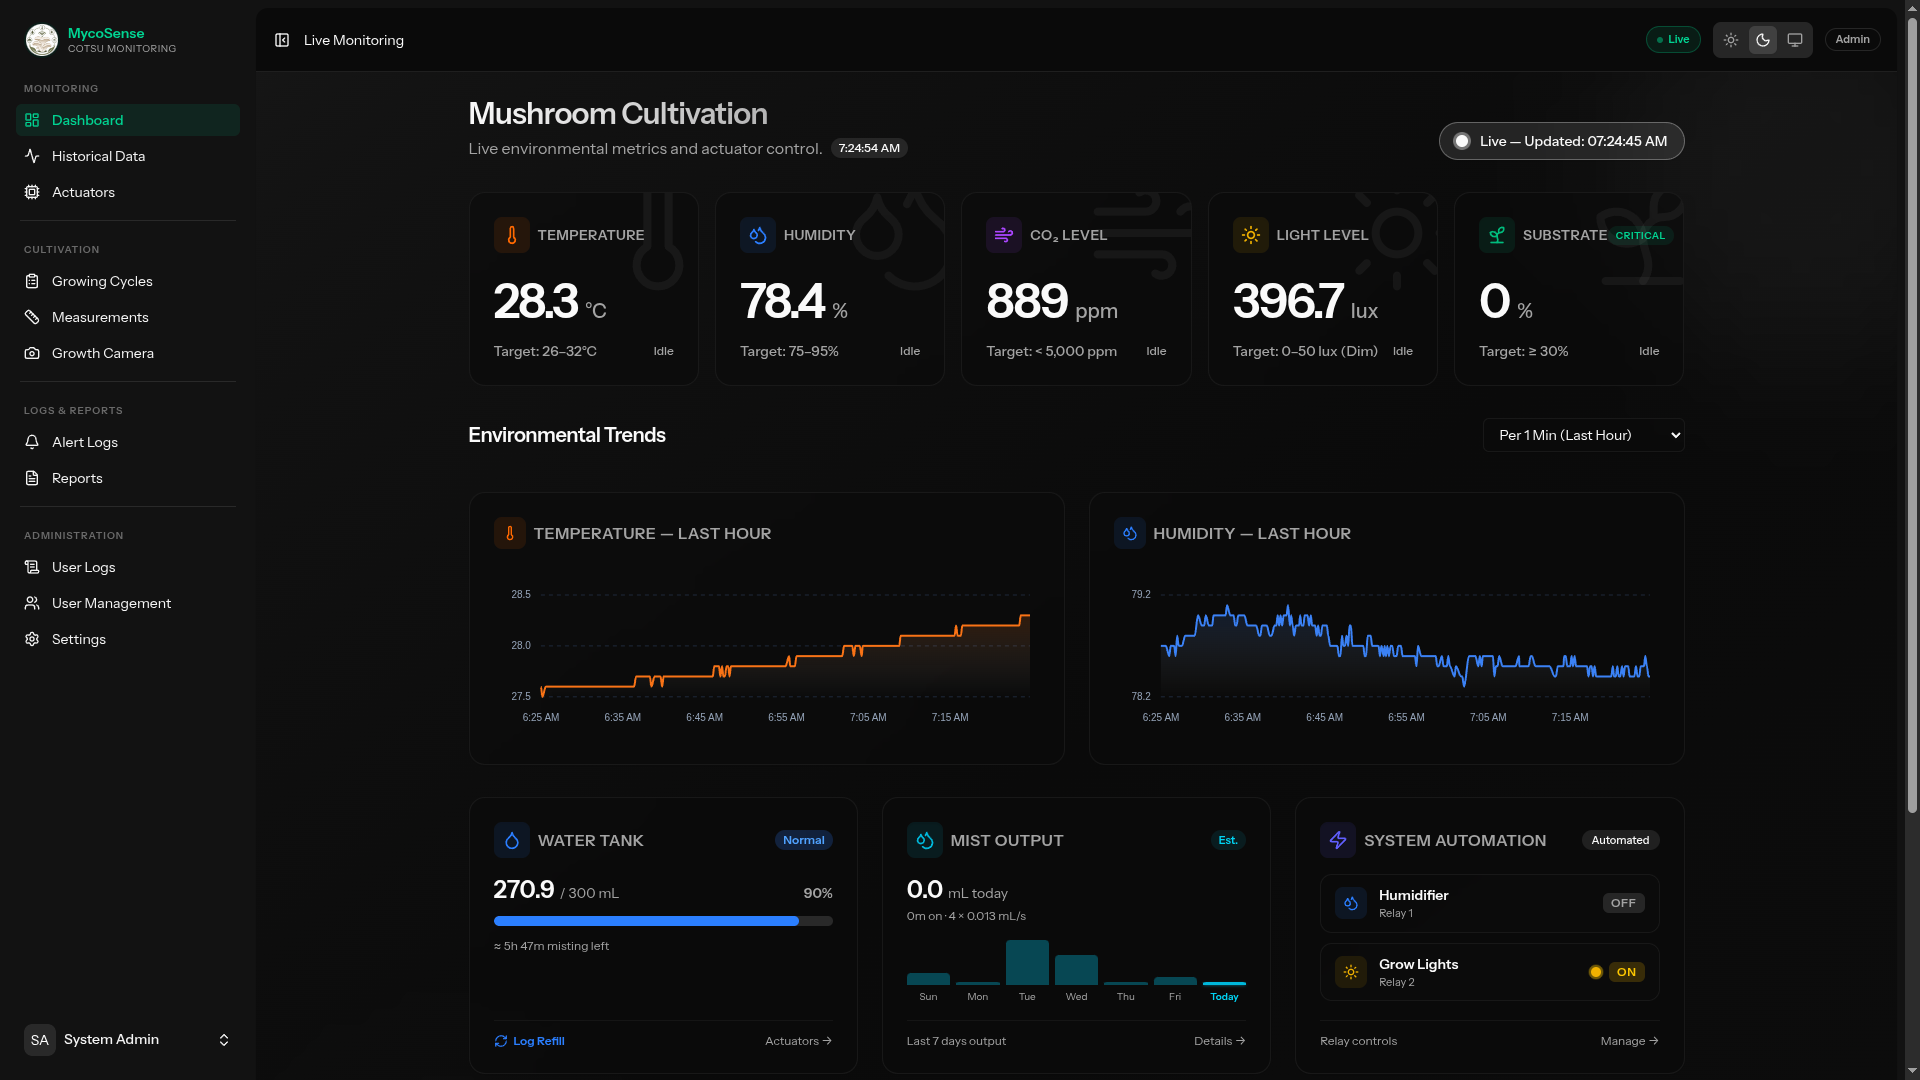
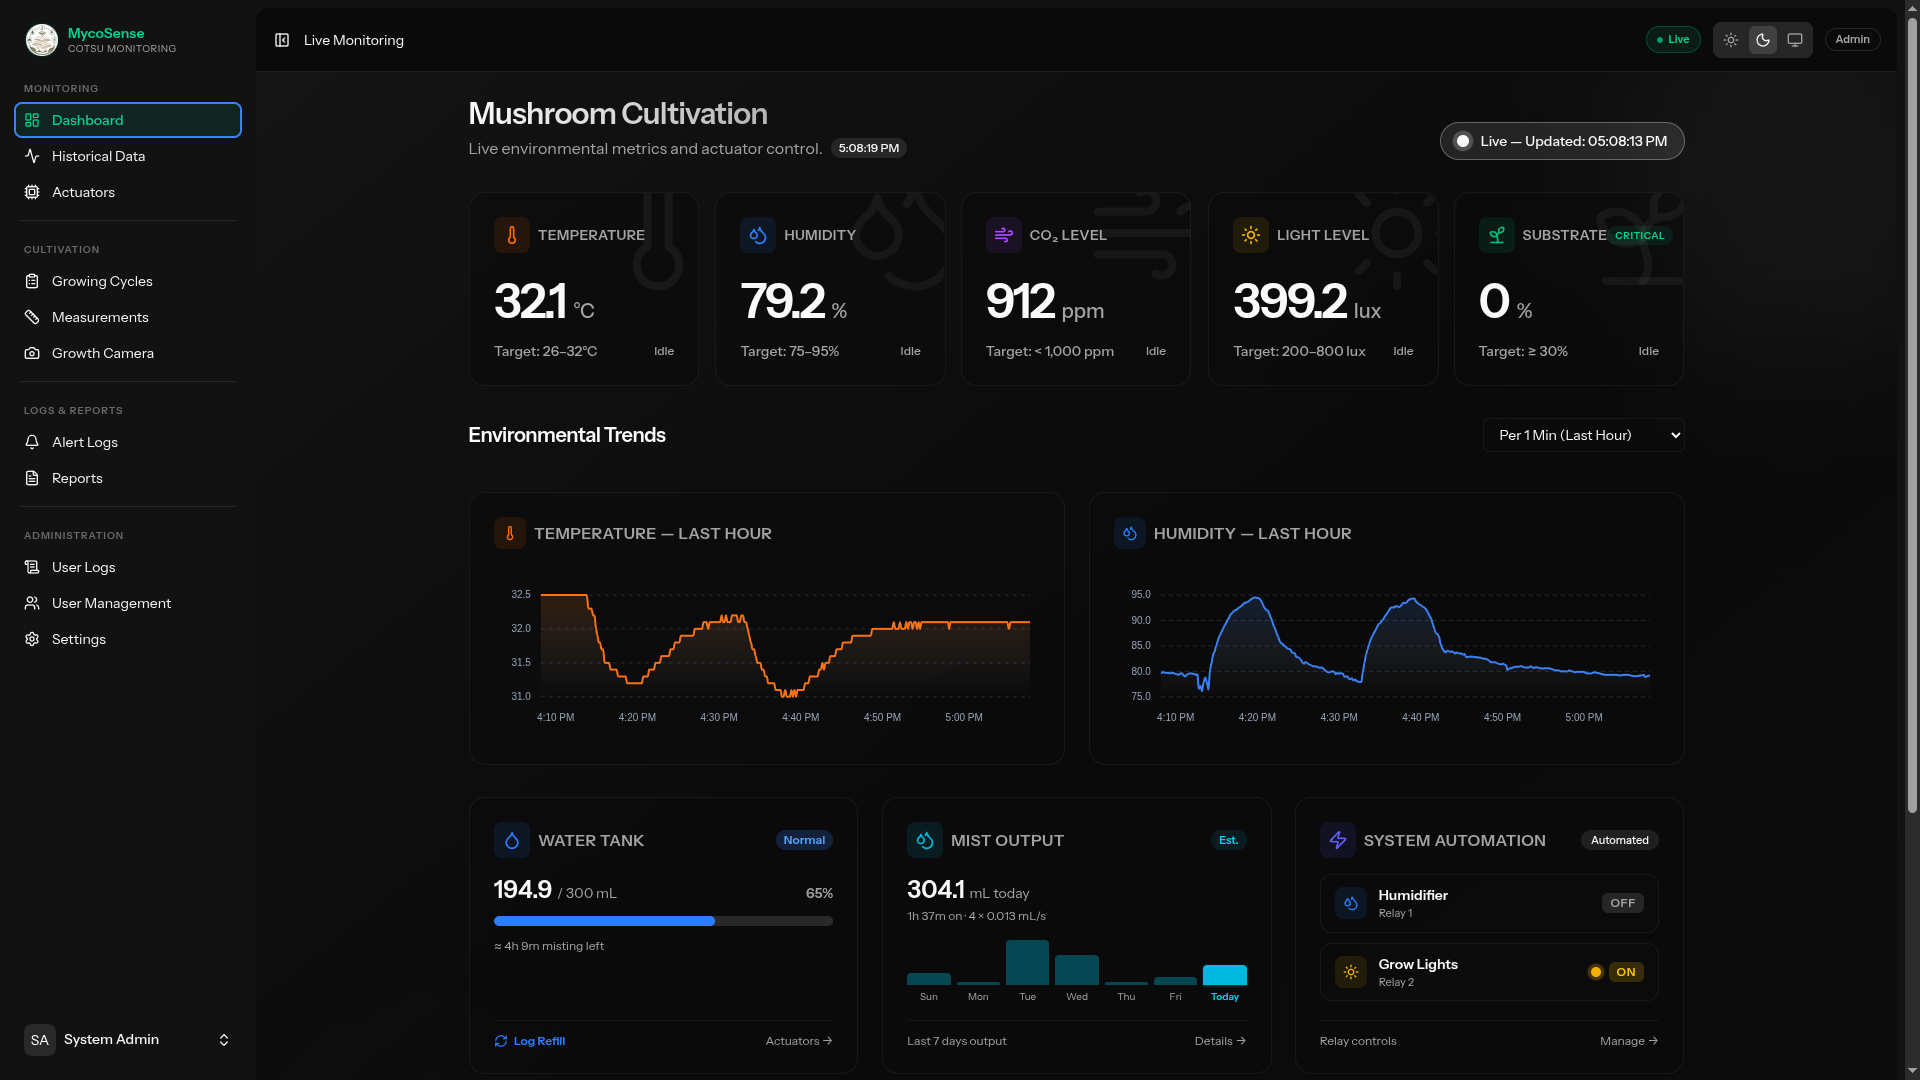
refactor: simplify mushroom variety names by removing scientific classifications

diff --git a/resources/js/pages/cycles/Index.vue b/resources/js/pages/cycles/Index.vue
@@ -58,13 +58,13 @@ function clearFilter() {
 
 // ── Create cycle modal ─────────────────────────────────────────────────────────
 const MUSHROOM_VARIETIES = [
-    'Gray Oyster Mushroom (Pleurotus sajor-caju)',
-    'White Oyster Mushroom (Pleurotus ostreatus)',
-    'Pink Oyster Mushroom (Pleurotus djamor)',
-    'Blue Oyster Mushroom (Pleurotus columbinus)',
-    'Golden / Yellow Oyster Mushroom (Pleurotus citrinopileatus)',
-    'King Oyster Mushroom (Pleurotus eryngii)',
-    'Phoenix / Indian Oyster Mushroom (Pleurotus pulmonarius)',
+    'Gray Oyster Mushroom',
+    'White Oyster Mushroom',
+    'Pink Oyster Mushroom',
+    'Blue Oyster Mushroom',
+    'Golden / Yellow Oyster Mushroom',
+    'King Oyster Mushroom',
+    'Phoenix / Indian Oyster Mushroom',
 ] as const;
 
 const showModal = ref(false);

diff --git a/tests/Feature/GrowingCycleTest.php b/tests/Feature/GrowingCycleTest.php
@@ -8,7 +8,7 @@ test('authorized user can create growing cycle with single common substrate', fu
 
     $response = $this->actingAs($user)->postJson('/api/cycles', [
         'name' => 'Batch 2026-Sawdust',
-        'mushroom_variety' => 'Gray Oyster Mushroom (Pleurotus sajor-caju)',
+        'mushroom_variety' => 'Gray Oyster Mushroom',
         'substrate_type' => 'Sawdust',
         'start_date' => now()->toDateString(),
     ]);
@@ -28,7 +28,7 @@ test('authorized user can create growing cycle with multiple common substrates',
 
     $response = $this->actingAs($user)->postJson('/api/cycles', [
         'name' => 'Batch 2026-Mixed',
-        'mushroom_variety' => 'Gray Oyster Mushroom (Pleurotus sajor-caju)',
+        'mushroom_variety' => 'Gray Oyster Mushroom',
         'substrate_type' => 'Sawdust, Rice Straw, Corn Cobs',
         'start_date' => now()->toDateString(),
     ]);
@@ -48,7 +48,7 @@ test('authorized user can create growing cycle with custom substrate', function 
 
     $response = $this->actingAs($user)->postJson('/api/cycles', [
         'name' => 'Batch 2026-Custom',
-        'mushroom_variety' => 'Gray Oyster Mushroom (Pleurotus sajor-caju)',
+        'mushroom_variety' => 'Gray Oyster Mushroom',
         'substrate_type' => 'Cotton Waste',
         'start_date' => now()->toDateString(),
     ]);
@@ -65,7 +65,7 @@ test('authorized user can create growing cycle with combined common and custom s
 
     $response = $this->actingAs($user)->postJson('/api/cycles', [
         'name' => 'Batch 2026-Enriched',
-        'mushroom_variety' => 'Gray Oyster Mushroom (Pleurotus sajor-caju)',
+        'mushroom_variety' => 'Gray Oyster Mushroom',
         'substrate_type' => 'Sawdust, Rice Bran (15%), Lime (1%)',
         'start_date' => now()->toDateString(),
     ]);
@@ -82,7 +82,7 @@ test('substrate type is required when creating growing cycle', function () {
 
     $response = $this->actingAs($user)->postJson('/api/cycles', [
         'name' => 'Batch 2026-NoSubstrate',
-        'mushroom_variety' => 'Gray Oyster Mushroom (Pleurotus sajor-caju)',
+        'mushroom_variety' => 'Gray Oyster Mushroom',
         'substrate_type' => '',
         'start_date' => now()->toDateString(),
     ]);
